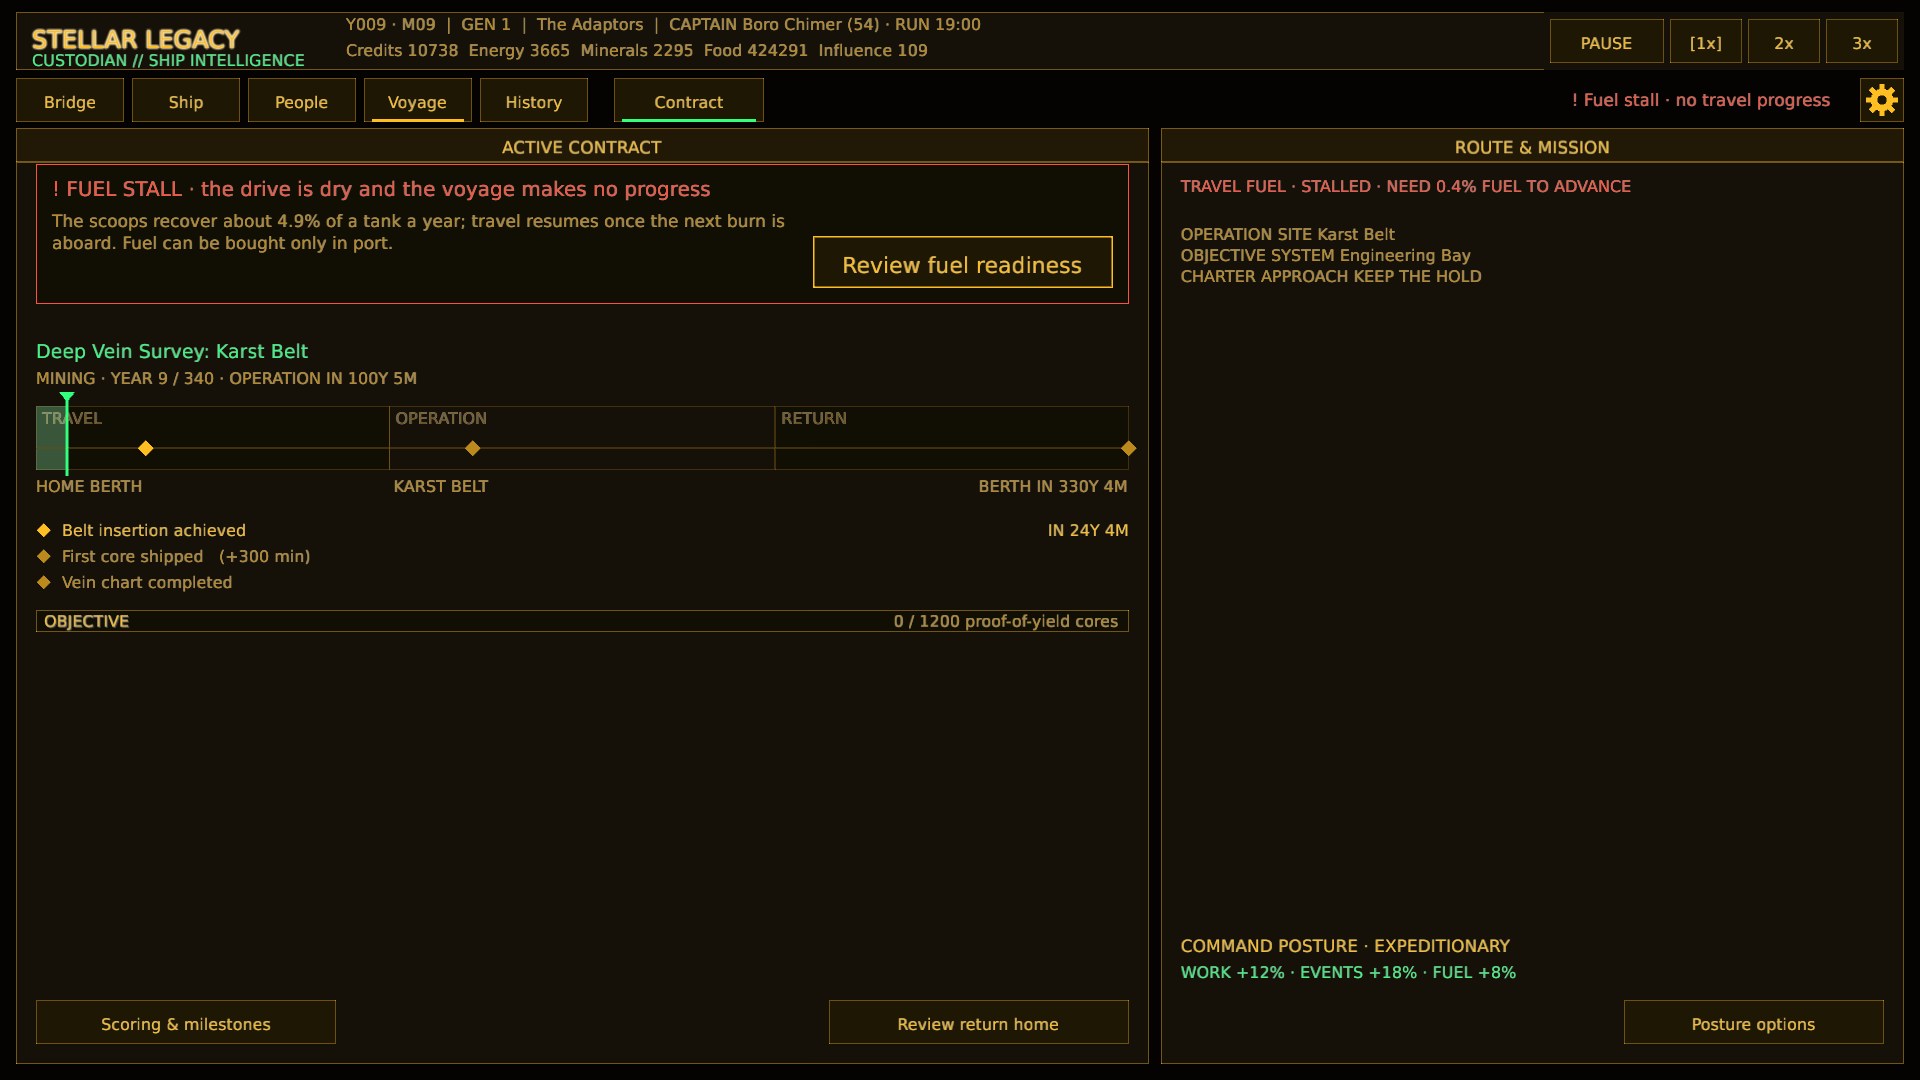
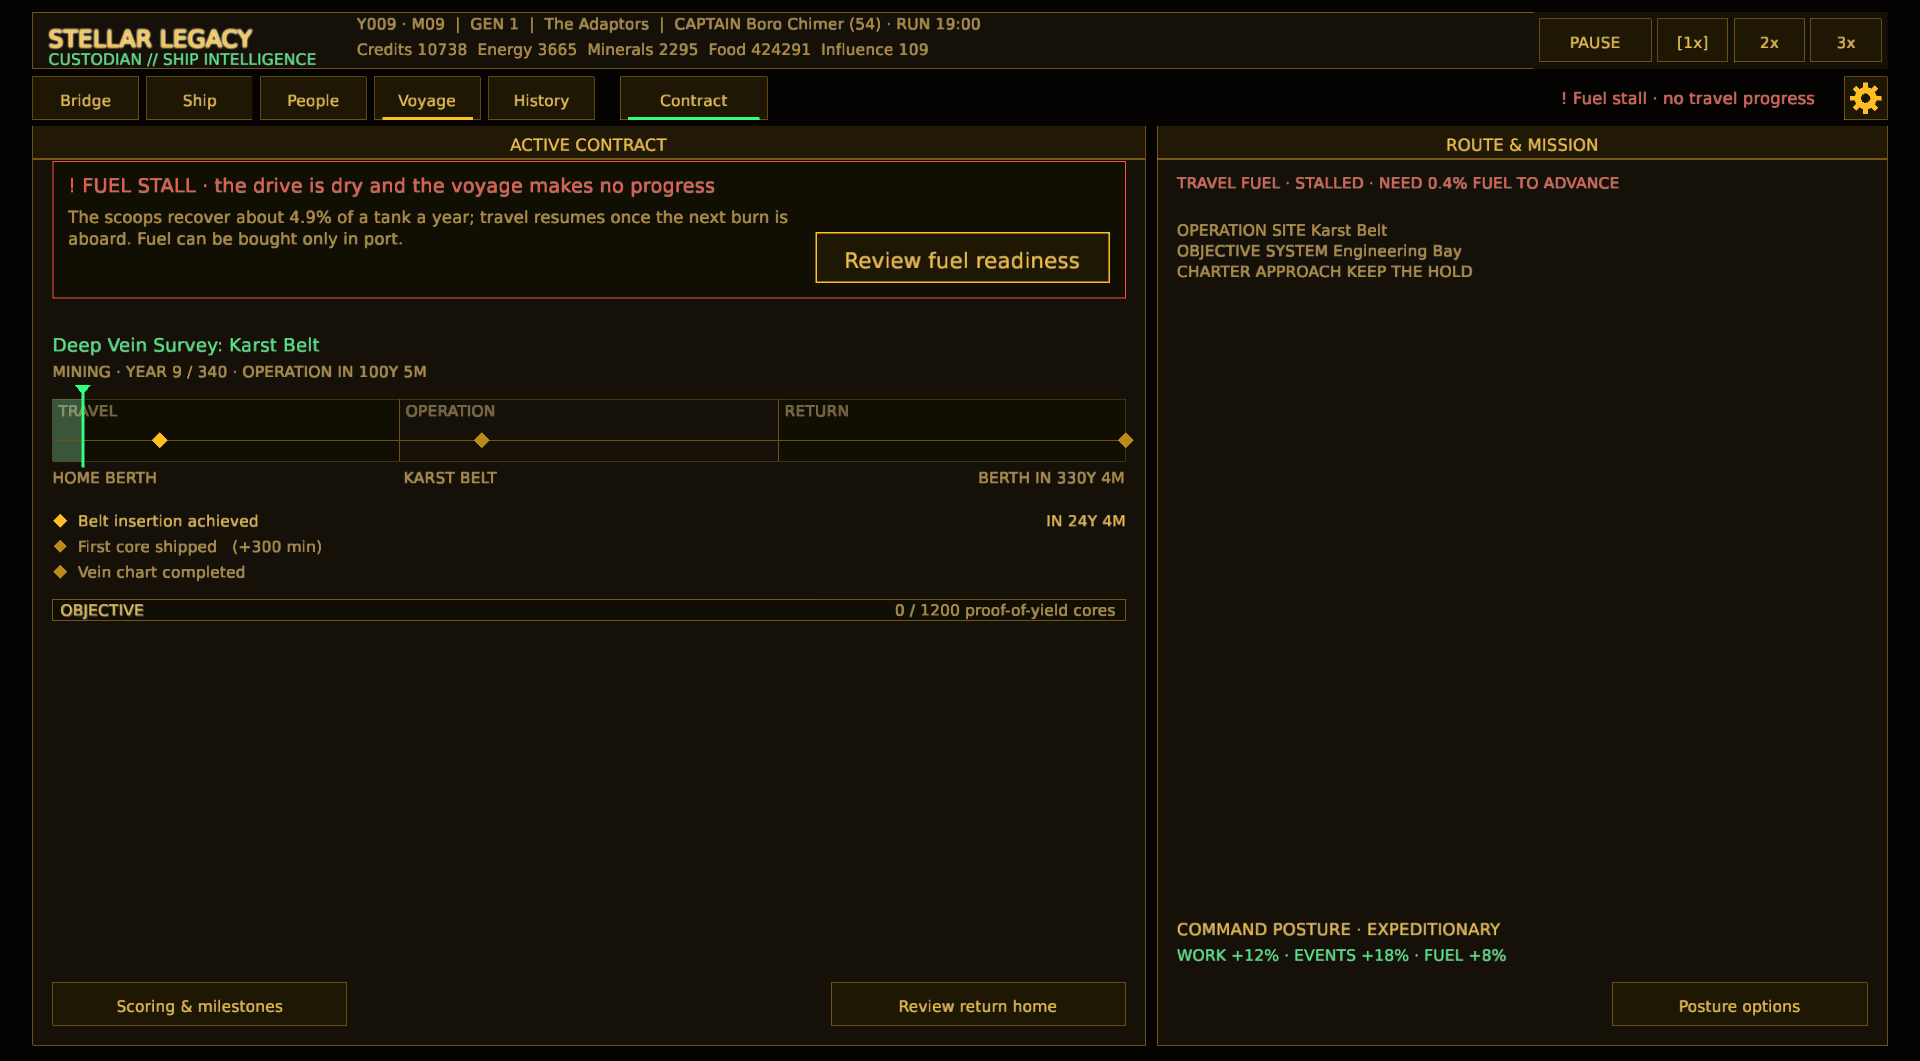
The posture panel and council table are drawn in readable pieces (function length)
The function-length gate failed on draw_posture (101 lines) and
draw_council_choices (119 lines). The posture choice row moves into
draw_posture_buttons. The council table's label-column width and its commit
bar move into grid_label_width and draw_commit. Drawing is unchanged; the
prep, active-contract and event captures were retaken and read back, and they
look the same.

Checks: cargo fmt; strict Clippy (all targets) clean; code_standards 5 of 5
pass; captured ui_prep, ui_contract_active and ui_event at 1920x1080.

diff --git a/src/ui/event_modal/council.rs b/src/ui/event_modal/council.rs
@@ -162,21 +162,7 @@ fn draw_council_choices(
     let state = ctx.presentation;
     let gap = 14.0;
     let grid = option_effects(ctx, event, available);
-    // The label column fits its longest row at the current text size, so a
-    // value never lands on its label; it never takes more than 40%.
-    let label_w = grid
-        .1
-        .iter()
-        .map(String::as_str)
-        .chain(
-            grid.0
-                .iter()
-                .any(|(_, souls)| souls.is_some())
-                .then_some(SOULS_LABEL),
-        )
-        .map(|label| measure_text_size(label, TextStyle::new(GRID_TEXT, term::dim())).width + 28.0)
-        .fold(GRID_LABEL_W, f32::max)
-        .min(right.w * 0.4);
+    let label_w = grid_label_width(&grid, right.w);
     let cols_x = right.x + label_w;
     let col_w =
         (right.right() - cols_x - gap * (available.len() - 1) as f32) / available.len() as f32;
@@ -248,8 +234,45 @@ Unavailable: insufficient stores for this choice.",
         detail_top + 21.0,
         TextStyle::new(GRID_TEXT, term::dim()).params(),
     );
+    draw_commit(
+        ctx,
+        event,
+        available[selected],
+        read_to_end,
+        right,
+        pointer,
+        actions,
+    );
+}
 
-    let index = available[selected];
+/// The label column fits its longest row at the current text size, so a
+/// value never lands on its label; it never takes more than 40% of `width`.
+fn grid_label_width(grid: &(Vec<OptionEffects>, Vec<String>), width: f32) -> f32 {
+    grid.1
+        .iter()
+        .map(String::as_str)
+        .chain(
+            grid.0
+                .iter()
+                .any(|(_, souls)| souls.is_some())
+                .then_some(SOULS_LABEL),
+        )
+        .map(|label| measure_text_size(label, TextStyle::new(GRID_TEXT, term::dim())).width + 28.0)
+        .fold(GRID_LABEL_W, f32::max)
+        .min(width * 0.4)
+}
+
+/// The full-width commit bar: live only once the selected option is both
+/// affordable and read to its end, and saying which of the two is missing.
+fn draw_commit(
+    ctx: &GameplayCtx<'_>,
+    event: &crate::data::events::EventTemplate,
+    index: usize,
+    read_to_end: bool,
+    right: Rect,
+    pointer: Pointer,
+    actions: &mut Vec<UiAction>,
+) {
     let outcome = &event.outcomes[index];
     let affordable = crate::simulation::event_resolver::outcome_affordable(ctx.sim, outcome);
     let label = if !affordable {

diff --git a/src/ui/contract_systems/outlook.rs b/src/ui/contract_systems/outlook.rs
@@ -122,6 +122,18 @@ pub(crate) fn draw_posture(
             TextStyle::new(15.0, term::alert()).params(),
         );
     }
+    draw_posture_buttons(ctx, rect, can_change, pointer, actions);
+}
+
+/// The three posture choices along the panel's bottom edge, the active one
+/// marked and every one locked while the review lock holds.
+fn draw_posture_buttons(
+    ctx: &GameplayCtx<'_>,
+    rect: Rect,
+    can_change: bool,
+    pointer: Pointer,
+    actions: &mut Vec<UiAction>,
+) {
     let gap = 6.0;
     // Keep the policy controls at the touch-first 44px target even in PREP,
     // where this panel is deliberately compact.

diff --git a/TODO.md b/TODO.md
@@ -134,13 +134,6 @@ run interactively; the findings below come from reading the code.
   checks, the frame panics.
   **Action:** switch these to `let … else { return; }` so the draw call
   degrades to an empty panel instead of a crash.
-- [ ] **CR-08 — The function-length gate fails on two draw functions (agent).**
-  `cargo test --test code_standards` fails at HEAD:
-  `production_functions_stay_under_the_limit` reports
-  `ui/contract_systems/outlook.rs:45-145` (101 lines) and
-  `ui/event_modal/council.rs:153-271` (119 lines), over the 100-line limit.
-  **Action:** split each function into cohesive helpers (not compressed
-  formatting), and recapture the active-contract and event screens.
 - [ ] **CR-09 — The autoplay soak and balance matrix still live in `src/` (owner decision).**
   `simulation.rs` still uses `include!` to pull in
   `tests/unit/simulation/autoplay.rs` (the owner's playtest soak, 12 tests) and
